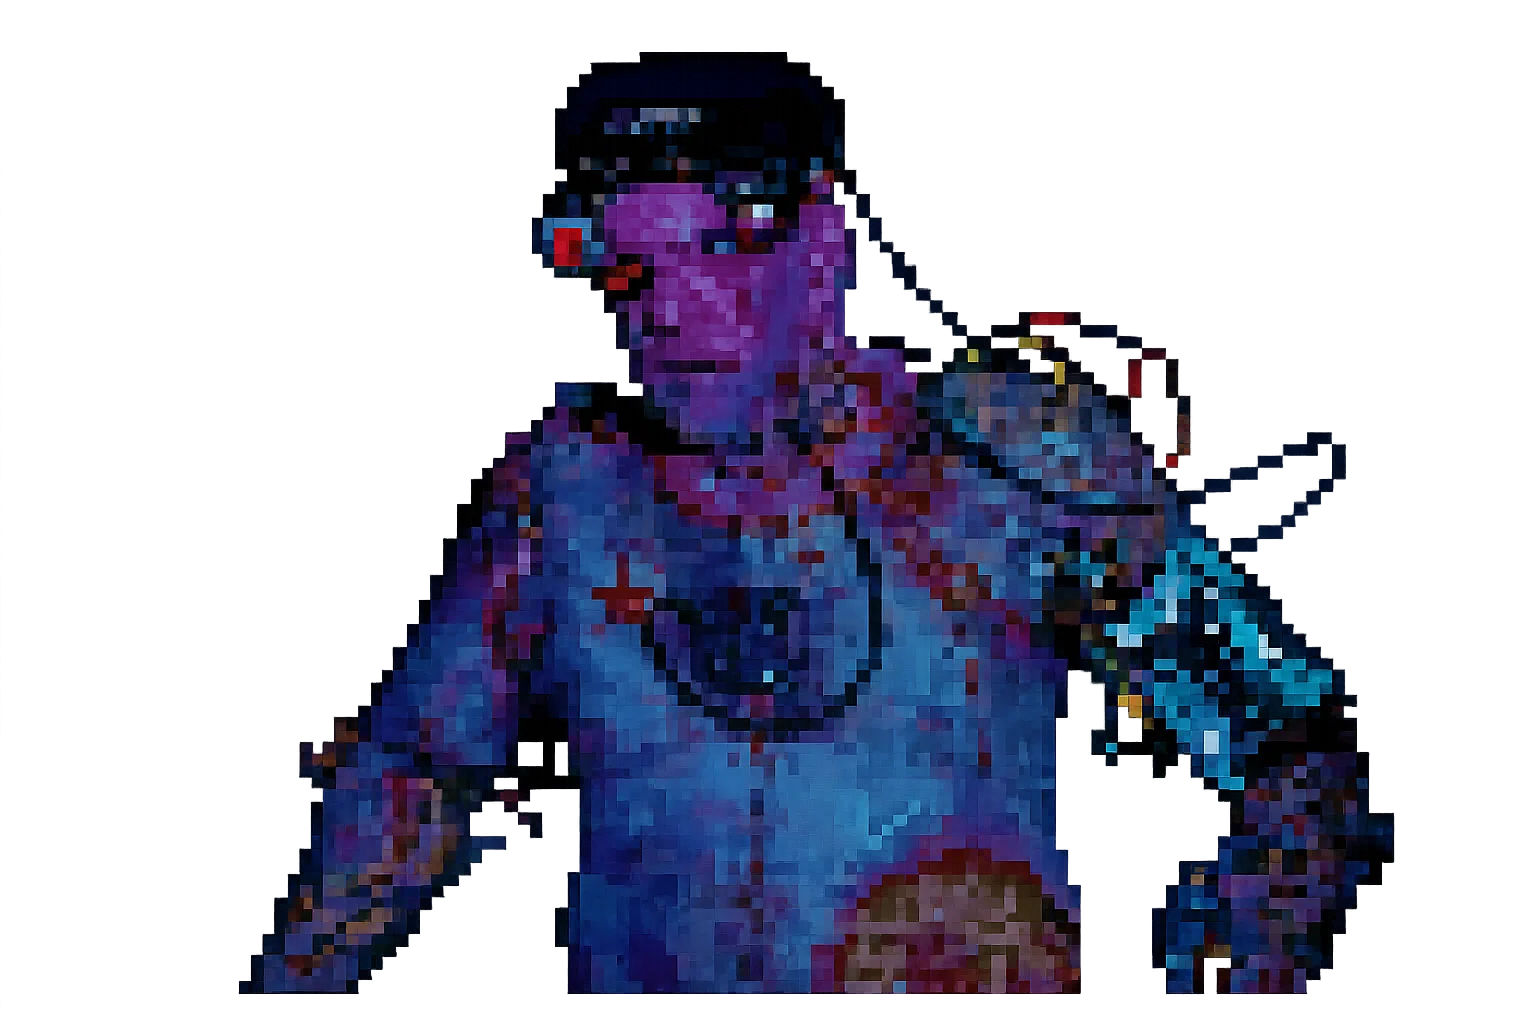
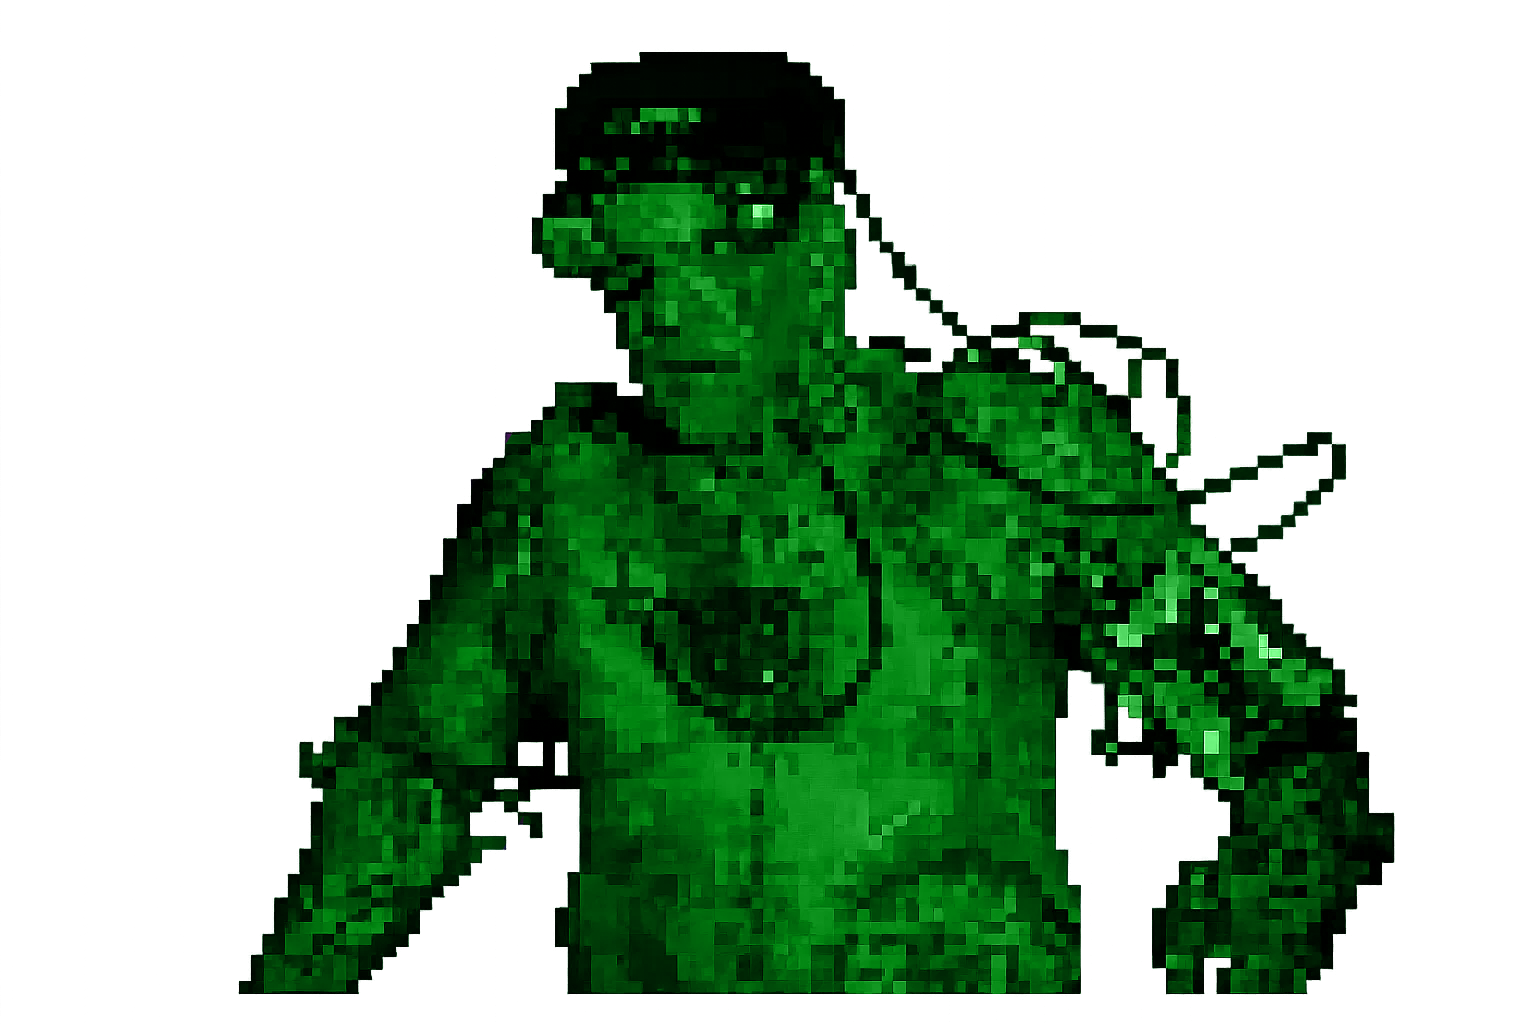
fix: corrected some small errors

diff --git a/src/components/game-monitor/pokemon-battle/pokemon-battle.tsx b/src/components/game-monitor/pokemon-battle/pokemon-battle.tsx
@@ -10,7 +10,7 @@ import { PokemonStats } from "./pokemon-stats"
 import { useRickOverlay } from "../rick-overlay-context"
 import { getAbilityDamage, applyStatusEffectsToDamage, checkDodge, decrementStatusEffects, addStatusEffect } from "./utils"
 import { StatusEffect } from "./types"
-import ricoSpriteUrl from "./images/richie.webp?url"
+import ricoSpriteUrl from "./images/rico.webp?url"
 import captainEvertonSpriteUrl from "./images/captain-robert-everton.webp?url"
 import alienImageUrl from "./images/virus.webp?url"
 import introMusicUrl from "./audio/pokemon-battle-intro.ogg?url"
@@ -34,9 +34,9 @@ const rico: Character = {
   faintSound: "rico-faint",
   abilities: [
     { name: "Steve", type: "attack", damage: { min: 3, max: 7 }, description: "Steve!", soundEffect: "steve" },
-    { name: "STEVE", type: "attack", damage: { min: 8, max: 12 }, description: "STEVE!", soundEffect: "steve-loud" },
-    { name: "Steve...", type: "attack", damage: { min: 1, max: 3 }, description: "Steve...", soundEffect: "steve-soft" },
-    { name: "STEVE!!!", type: "attack", damage: { min: 9, max: 13 }, description: "STEVE!!!", soundEffect: "steve-excited" },
+    { name: "STEVE", type: "attack", damage: { min: 8, max: 12 }, description: "STEVE!", soundEffect: "steve" },
+    { name: "Steve...", type: "attack", damage: { min: 1, max: 3 }, description: "Steve...", soundEffect: "steve" },
+    { name: "STEVE!!!", type: "attack", damage: { min: 9, max: 13 }, description: "STEVE!!!", soundEffect: "steve" },
   ],
 }
 

diff --git a/src/components/game-monitor/pokemon-battle/attack-sounds.ts b/src/components/game-monitor/pokemon-battle/attack-sounds.ts
@@ -3,6 +3,7 @@ import { AbilitySoundName } from "./types"
 
 class AttackSoundManager {
   private audioFileCache: Map<AbilitySoundName, HTMLAudioElement> = new Map()
+  private volume: number = 0.3
 
   private getAudio(soundType: AbilitySoundName): HTMLAudioElement | null {
     const cached = this.audioFileCache.get(soundType)
@@ -25,6 +26,7 @@ class AttackSoundManager {
   async playAttackSound(soundType: AbilitySoundName) {
     const audio = this.getAudio(soundType)
     if (!audio) return
+    audio.volume = this.volume
 
     try {
       audio.currentTime = 0

diff --git a/src/components/game-monitor/pokemon-battle/pokemon-battle.scss b/src/components/game-monitor/pokemon-battle/pokemon-battle.scss
@@ -66,7 +66,6 @@
         image-rendering: pixelated;
         image-rendering: -moz-crisp-edges;
         image-rendering: crisp-edges;
-        filter: hue-rotate(45deg);
       }
 
       .sprite-placeholder {
